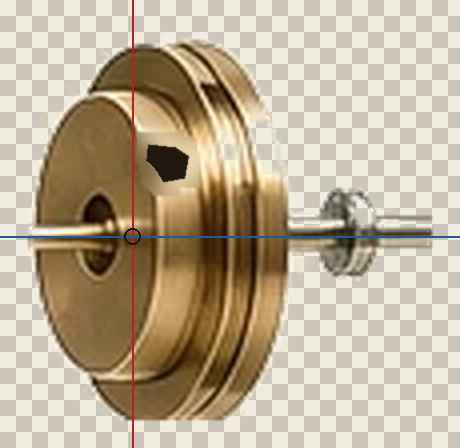
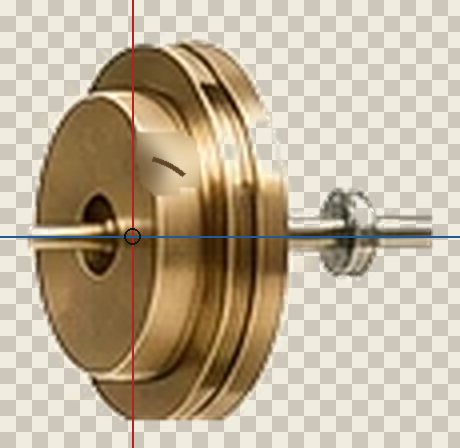
fix: refine World Compiler input locator

Changed region(s): [[0.3043, 0.3125, 0.4261, 0.4062]]

diff --git a/index.html b/index.html
@@ -13,13 +13,13 @@
     <link rel="preload" as="image" type="image/webp" href="/world-compiler/parts-v4/backplate-right.webp?v=20260718-12" />
     <link rel="preload" as="image" type="image/webp" href="/world-compiler/parts-v4/casing-left.webp?v=20260718-12" />
     <link rel="preload" as="image" type="image/webp" href="/world-compiler/parts-v4/casing-right.webp?v=20260718-12" />
-    <link rel="preload" as="image" type="image/webp" href="/world-compiler/parts-v5/shaft-3x.webp?v=20260718-12" />
+    <link rel="preload" as="image" type="image/webp" href="/world-compiler/parts-v5/shaft-3x.webp?v=20260722-1" />
     <link rel="preload" as="image" type="image/webp" href="/world-compiler/parts-v4/rock.webp?v=20260718-12" />
-    <link rel="preload" as="image" type="image/webp" href="/world-compiler/parts-v5/input-static-back-3x.webp?v=20260718-12" />
-    <link rel="preload" as="image" type="image/webp" href="/world-compiler/parts-v5/input-face-detail-3x.webp?v=20260718-12" />
-    <link rel="preload" as="image" type="image/webp" href="/world-compiler/parts-v5/input-static-front-3x.webp?v=20260718-12" />
-    <link rel="preload" as="image" type="image/webp" href="/world-compiler/parts-v5/input-face-mask-3x.webp?v=20260718-12" />
-    <link rel="preload" as="image" type="image/webp" href="/world-compiler/parts-v5/input-guide-3x.webp?v=20260718-12" />
+    <link rel="preload" as="image" type="image/webp" href="/world-compiler/parts-v5/input-static-back-3x.webp?v=20260722-1" />
+    <link rel="preload" as="image" type="image/webp" href="/world-compiler/parts-v5/input-face-detail-3x.webp?v=20260722-1" />
+    <link rel="preload" as="image" type="image/webp" href="/world-compiler/parts-v5/input-static-front-3x.webp?v=20260722-1" />
+    <link rel="preload" as="image" type="image/webp" href="/world-compiler/parts-v5/input-face-mask-3x.webp?v=20260722-1" />
+    <link rel="preload" as="image" type="image/webp" href="/world-compiler/parts-v5/input-guide-3x.webp?v=20260722-1" />
     <link rel="preload" as="image" type="image/webp" href="/world-compiler/parts-v4/rules-core-front.webp?v=20260718-12" />
     <link rel="preload" as="image" type="image/webp" href="/world-compiler/parts-v4/rules-gear-outer.webp?v=20260718-12" />
     <link rel="preload" as="image" type="image/webp" href="/world-compiler/parts-v4/rules-gear-inner.webp?v=20260718-12" />
@@ -29,7 +29,7 @@
     <link rel="preload" as="image" type="image/webp" href="/world-compiler/parts-v4/state-rotor-cycle.webp?v=20260718-12" />
     <link rel="preload" as="image" type="image/webp" href="/world-compiler/parts-v4/output-core-front.webp?v=20260718-12" />
     <link rel="preload" as="image" type="image/webp" href="/world-compiler/parts-v4/output-rotor-cycle.webp?v=20260718-12" />
-    <link rel="preload" as="image" type="image/webp" href="/world-compiler/parts-v5/input-frame-3x.webp?v=20260718-12" />
+    <link rel="preload" as="image" type="image/webp" href="/world-compiler/parts-v5/input-frame-3x.webp?v=20260722-1" />
     <link rel="preload" as="image" type="image/webp" href="/world-compiler/parts-v4/rules-frame.webp?v=20260718-12" />
     <link rel="preload" as="image" type="image/webp" href="/world-compiler/parts-v4/state-frame.webp?v=20260718-12" />
     <link rel="preload" as="image" type="image/webp" href="/world-compiler/parts-v4/output-frame.webp?v=20260718-12" />
@@ -37,6 +37,6 @@
   </head>
   <body>
     <div id="root"></div>
-    <script type="module" src="/src/main.jsx?v=20260718-14"></script>
+    <script type="module" src="/src/main.jsx?v=20260722-1"></script>
   </body>
 </html>

diff --git a/src/WorldCompiler.jsx b/src/WorldCompiler.jsx
@@ -3,10 +3,11 @@ import { useLayoutEffect, useRef, useState } from "react";
 
 const PART_ROOT_V4 = "/world-compiler/parts-v4";
 const PART_ROOT_V5 = "/world-compiler/parts-v5";
-const ASSET_VERSION = "20260718-12";
-const partAsset = (root, name) => `${root}/${name}?v=${ASSET_VERSION}`;
-const partAssetV4 = (name) => partAsset(PART_ROOT_V4, name);
-const partAssetV5 = (name) => partAsset(PART_ROOT_V5, name);
+const ASSET_VERSION_V4 = "20260718-12";
+const ASSET_VERSION_V5 = "20260722-1";
+const partAsset = (root, name, version) => `${root}/${name}?v=${version}`;
+const partAssetV4 = (name) => partAsset(PART_ROOT_V4, name, ASSET_VERSION_V4);
+const partAssetV5 = (name) => partAsset(PART_ROOT_V5, name, ASSET_VERSION_V5);
 const LAYERS = {
   backplateLeft: partAssetV4("backplate-left.webp"),
   backplateRight: partAssetV4("backplate-right.webp"),

diff --git a/src/main.jsx b/src/main.jsx
@@ -1,7 +1,7 @@
 import React from "react";
 import { createRoot } from "react-dom/client";
-import { App } from "./App.jsx?v=13";
-import "./styles.css?v=13";
+import { App } from "./App.jsx?v=14";
+import "./styles.css?v=14";
 
 createRoot(document.getElementById("root")).render(
   <React.StrictMode>

diff --git a/src/App.jsx b/src/App.jsx
@@ -6,7 +6,7 @@ import {
   GithubLogo,
 } from "@phosphor-icons/react";
 
-const WorldCompiler = lazy(() => import("./WorldCompiler.jsx?v=13"));
+const WorldCompiler = lazy(() => import("./WorldCompiler.jsx?v=14"));
 
 const content = {
   zh: {

diff --git a/design/check_world_compiler_parts_v5.py b/design/check_world_compiler_parts_v5.py
@@ -226,8 +226,11 @@ def main() -> None:
     assert not np.any(approved_delta[~keyed_marker]), (
         "approved INPUT mother changes pixels outside the positioning mark"
     )
-    assert 900 <= int(np.count_nonzero(marker_core)) <= 1150, (
+    assert 50 <= int(np.count_nonzero(marker_core)) <= 100, (
         "unexpected 4x INPUT positioning-mark area"
+    )
+    assert 250 <= int(np.count_nonzero(marker)) <= 320, (
+        "unexpected feathered INPUT positioning-mark area"
     )
     assert np.all(detail_4x[:, :, 3][marker_core] >= 185), (
         "INPUT positioning mark is not fully owned by the moving detail"
@@ -236,14 +239,15 @@ def main() -> None:
         approved_4x[:, :, :3].astype(np.float32)
         @ np.array([0.2126, 0.7152, 0.0722], dtype=np.float32)
     )
-    assert float(marker_luminance[marker_core].mean()) <= 45.0, (
-        "INPUT positioning mark is too light"
+    marker_mean_luminance = float(marker_luminance[marker_core].mean())
+    assert 70.0 <= marker_mean_luminance <= 85.0, (
+        "INPUT positioning mark must read as a deep-brass engraving"
     )
     detail_luminance = (
         detail_4x[:, :, :3].astype(np.float32)
         @ np.array([0.2126, 0.7152, 0.0722], dtype=np.float32)
     )
-    assert float(np.percentile(detail_luminance[marker], 99)) <= 40.0, (
+    assert float(np.percentile(detail_luminance[marker], 99)) <= 85.0, (
         "INPUT positioning mark carries a bright moving fringe"
     )
     marker_base = np.asarray(marker_base_image)
@@ -252,9 +256,9 @@ def main() -> None:
     )
 
     moving_nonmarker = moving & ~marker
-    assert int(np.count_nonzero(moving_nonmarker)) <= int(
-        np.count_nonzero(marker) * 0.6
-    ), "moving microtexture is too dense relative to the positioning mark"
+    assert int(np.count_nonzero(moving_nonmarker)) <= 600, (
+        "moving microtexture is too dense"
+    )
     global_x, global_y = build.global_coordinates(
         build.INPUT_COMPONENT_CROP,
         build.MASTER_SCALE,

diff --git a/design/build_world_compiler_parts_v5.py b/design/build_world_compiler_parts_v5.py
@@ -23,7 +23,7 @@ INPUT_AXIS = (201, 263)
 INPUT_COMPONENT_CROP = (168, 204, 283, 316)
 INPUT_FACE_CROP = (168, 204, 252, 316)
 INPUT_MARKER_SEARCH = (203, 238, 219, 252)
-INPUT_MARKER_RGB = (32, 24, 14)
+INPUT_MARKER_RGB = (96, 70, 36)
 
 
 @dataclass(frozen=True)
@@ -240,24 +240,22 @@ def approved_input_component() -> tuple[
 
     marker_mask = Image.new("L", component.size, 0)
     marker_draw = ImageDraw.Draw(marker_mask)
-    marker_points_logical = [
-        (205.0, 240.2),
-        (211.8, 240.8),
-        (215.0, 243.1),
-        (214.2, 248.5),
-        (207.0, 249.8),
-        (204.4, 247.0),
-    ]
-    marker_points = [
-        (
-            (point_x - INPUT_COMPONENT_CROP[0]) * MASTER_SCALE,
-            (point_y - INPUT_COMPONENT_CROP[1]) * MASTER_SCALE,
-        )
-        for point_x, point_y in marker_points_logical
-    ]
-    marker_draw.polygon(marker_points, fill=255)
+    marker_radius = 20.5
+    marker_bounds = (
+        (INPUT_AXIS[0] - marker_radius - INPUT_COMPONENT_CROP[0]) * MASTER_SCALE,
+        (INPUT_AXIS[1] - marker_radius - INPUT_COMPONENT_CROP[1]) * MASTER_SCALE,
+        (INPUT_AXIS[0] + marker_radius - INPUT_COMPONENT_CROP[0]) * MASTER_SCALE,
+        (INPUT_AXIS[1] + marker_radius - INPUT_COMPONENT_CROP[1]) * MASTER_SCALE,
+    )
+    marker_draw.arc(
+        marker_bounds,
+        start=285,
+        end=310,
+        fill=255,
+        width=round(1.25 * MASTER_SCALE),
+    )
     marker_alpha = np.asarray(
-        marker_mask.filter(ImageFilter.GaussianBlur(radius=0.65)),
+        marker_mask.filter(ImageFilter.GaussianBlur(radius=0.55)),
         dtype=np.uint8,
     ).copy()
     marker_alpha[marker_alpha < MIN_ALPHA] = 0

diff --git a/AGENTS.md b/AGENTS.md
@@ -24,5 +24,7 @@ When implementing from a selected generated mock, treat that image as the source
 - In the expanded state, the RULES gear train runs as a restrained counter-rotating mechanical cycle. It fades and pauses during reassembly and stays still for reduced-motion users.
 - In the expanded state, INPUT's flywheel, RULES' counter-rotating gears, STATE's front drum, and OUTPUT's lattice sphere each own a distinct restrained cycle. RULES stays clearly legible at normal page scale; the cycles ramp up only after the parts separate and pause when reassembling, offscreen, page-hidden, or reduced-motion.
 - Internal motion uses fine-grained layer ownership: shafts, central hubs, outer silhouettes, rims, and fixed photographic lighting remain static while approved surface details rotate around the measured shaft center. Every transformed sprite uses a 4× RGBA design master and a tight 3× lossless runtime asset, alpha-safe resampling, and a fixed viewport mask.
+- INPUT and STATE follow seamless 360-degree rigid-body rotation about their measured shaft axes. RULES preserves tooth-mesh phase and derives counter-rotation speed from pitch-radius or tooth-count ratios; visibly coaxial connected bodies share angular velocity. OUTPUT follows rigid-body sphere rotation about its center with quaternion-equivalent orientation, stable angular velocity, correct depth ordering, spatial occlusion, and world-fixed photographic lighting.
 - CSS/WAAPI is the default for projected planar mechanisms. Three.js is reserved for components that require true 3D geometry, dynamic lighting, camera parallax, or spatial occlusion, with OUTPUT as the first explicit decision gate.
+- INPUT's rotating locator reads as a small deep-brass engraved notch. It stays visible as a restrained motion cue without becoming an isolated black dot at any phase.
 - Visual constraints: premium editorial whitespace, restrained brass/glass/aluminum materials, no portraits, no neon AI palette, and no resume-style information density.

diff --git a/design-qa.md b/design-qa.md
@@ -383,3 +383,22 @@ Comparison setup:
 - P2: none.
 
 final result: passed
+
+## Pass 23 — subtle INPUT locator engraving
+
+Comparison setup:
+
+- User-reported defect: the rotating locator read as an isolated black dot when it reached the lower-right face quadrant.
+- Browser-rendered 0°, 90°, 180°, and 270° DPR 2 phases: `design/qa-v13-input-marker-four-phases.png`.
+- Browser viewports and states: 1280×720 at DPR 2 for the four fixed phases, plus 390×844 at DPR 2 for touch-expanded mobile verification.
+
+- The locator is now a 25° circular engraving at a 20.5 logical-pixel radius with a 1.25 logical-pixel stroke. Its deep-brass `(96,70,36)` color follows the wheel material and retains a restrained rotational cue.
+- The 4× opaque locator core decreased from 1,026 pixels to 72 pixels. Total moving coverage decreased from 4.55% to 2.15%, while the approved microtexture, face mask, shaft, hub, rim, silhouette, and photographic lighting ownership remain unchanged.
+- All four browser phases keep the same INPUT bounding box with 0px geometry delta. The locator reads as a short engraved arc in every quadrant and stays integrated with the face at normal page scale.
+- All seven v5 browser image URLs use `?v=20260722-1`. Desktop and mobile browser contexts produced no warnings, errors, page errors, or failed requests.
+- The asset checker reports a zero-error neutral 4× composite, 0.974 visible-pixel MAE at 3×, 236,008 bytes of runtime assets, and 4,821,264 bytes of decoded RGBA memory.
+- P0: none.
+- P1: none.
+- P2: none.
+
+final result: passed
